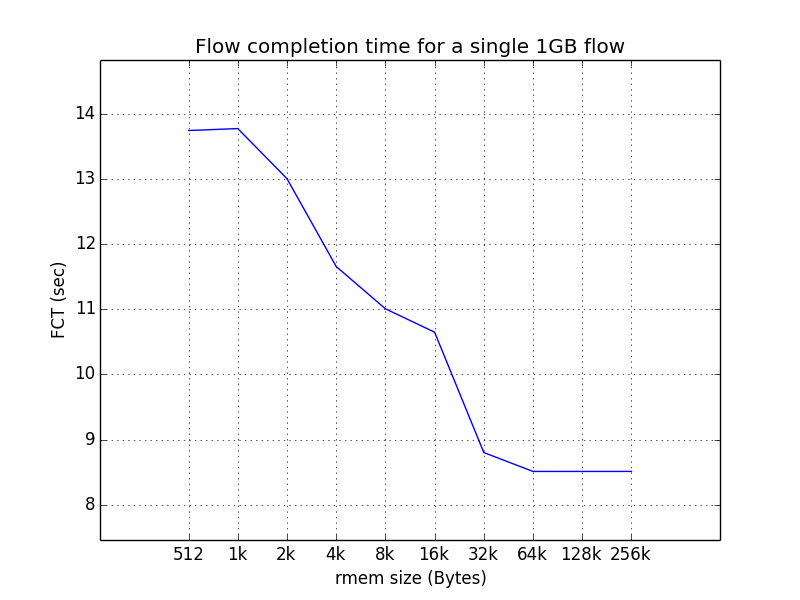
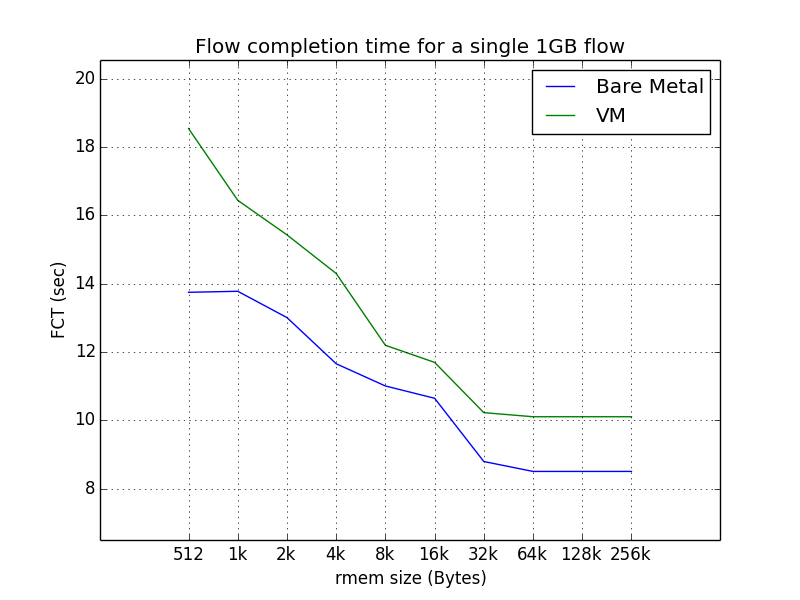
Added VM measurements to plots

diff --git a/experiments/plot_mem.py b/experiments/plot_mem.py
@@ -6,12 +6,13 @@ import numpy as np
 # rmem
 rmem = np.arange(0, 10)
 fct_r = np.array([13.75, 13.78, 13.01, 11.66, 11.01, 10.65, 8.8, 8.51, 8.51, 8.51])
-vm_fct_r = np.array([18.54, 16.44, 15.43, 14.3, 12.2, 11.7, 10.23, 10.23, 10.23])
+vm_fct_r = np.array([18.54, 16.44, 15.43, 14.3, 12.2, 11.7, 10.23, 10.11, 10.11, 10.11])
 rmem_labels = ['512', '1k', '2k', '4k', '8k', '16k', '32k', '64k', '128k', '256k']
 
-plt.plot(rmem, fct_r)
-plt.plot(rmem, vm_fct_r)
+plt.plot(rmem, fct_r, label='Bare Metal')
+plt.plot(rmem, vm_fct_r, label='VM')
 plt.xticks(rmem, rmem_labels)
+plt.legend()
 plt.margins(0.2)
 
 plt.xlabel('rmem size (Bytes)')
@@ -24,11 +25,14 @@ plt.show()
 # wmem
 wmem = np.arange(0, 10)
 fct_w = np.array([238, 235, 178, 44.31, 32.44, 20.73, 15.91, 9.9, 8.51, 8.51 ])
+vm_fct_w = np.array([313, 300, 216, 70, 64, 43.2, 34.5, 20.42, 12.1, 11.1])
 wmem_labels = ['512', '1k', '2k', '4k', '8k', '16k', '32k', '64k', '128k', '256k']
 
-plt.plot(wmem, fct_w)
+plt.plot(wmem, fct_w, label='Bare Metal')
+plt.plot(wmem, vm_fct_w, label='VM')
 plt.xticks(wmem, wmem_labels)
 plt.margins(0.2)
+plt.legend()
 
 plt.xlabel('wmem size (Bytes)')
 plt.ylabel('FCT (sec)')
